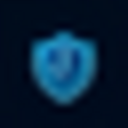
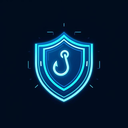
update automation

Changed region(s): [[0.2188, 0.1875, 0.7812, 0.8438]]

diff --git a/popup.html b/popup.html
@@ -15,24 +15,28 @@
 			width: 400px;
 			padding: 20px;
 			font-family: 'Inter', sans-serif;
-			background-color: #f8fafc;
+			background-color: #0A0F1B;
+			color: rgba(255, 255, 255, 0.9);
+			background-image: radial-gradient(circle at 50% 0%, rgba(0, 255, 169, 0.15), transparent 50%), 
+							radial-gradient(circle at 100% 0%, rgba(255, 0, 132, 0.15), transparent 50%);
 		}
 
 		.header {
 			text-align: center;
 			margin-bottom: 20px;
 			padding-bottom: 15px;
-			border-bottom: 1px solid #e2e8f0;
+			border-bottom: 1px solid rgba(255, 255, 255, 0.1);
 		}
 
 		.header h1 {
 			font-size: 24px;
-			color: #1e293b;
+			color: rgba(255, 255, 255, 0.9);
 			margin-bottom: 8px;
+			text-shadow: 0 2px 4px rgba(0, 0, 0, 0.3);
 		}
 
 		.header p {
-			color: #64748b;
+			color: rgba(255, 255, 255, 0.8);
 			font-size: 14px;
 		}
 
@@ -50,25 +54,27 @@
 		.scan-btn {
 			width: 100%;
 			padding: 12px;
-			background-color: #3b82f6;
-			color: white;
+			background: #00FFA9;
+			color: #0A0F1B;
 			border: none;
-			border-radius: 8px;
+			border-radius: 12px;
 			font-size: 16px;
-			font-weight: 500;
+			font-weight: 600;
 			cursor: pointer;
-			transition: background-color 0.2s;
+			transition: all 0.2s;
 			margin-bottom: 20px;
 			position: relative;
 			overflow: hidden;
+			box-shadow: 0 4px 12px rgba(0, 255, 169, 0.2);
 		}
 
 		.scan-btn:hover {
-			background-color: #2563eb;
+			transform: translateY(-2px);
+			box-shadow: 0 6px 16px rgba(0, 255, 169, 0.3);
 		}
 
 		.scan-btn:disabled {
-			background-color: #93c5fd;
+			background-color: rgba(0, 255, 169, 0.5);
 			cursor: not-allowed;
 		}
 
@@ -91,22 +97,21 @@
 		.result {
 			margin: 15px 0;
 			padding: 15px;
-			border-radius: 8px;
+			border-radius: 12px;
 			display: none;
 			animation: slideIn 0.3s ease-out;
-			transition: all 0.3s ease;
+			background: rgba(0, 0, 0, 0.3);
+			backdrop-filter: blur(10px);
+			border: 1px solid rgba(255, 255, 255, 0.1);
+			box-shadow: 0 8px 32px rgba(0, 0, 0, 0.3);
 		}
 
 		.result.safe {
-			background-color: #dcfce7;
-			border: 1px solid #86efac;
-			color: #166534;
+			border-color: rgba(0, 255, 169, 0.3);
 		}
 
 		.result.unsafe {
-			background-color: #fee2e2;
-			border: 1px solid #fca5a5;
-			color: #991b1b;
+			border-color: rgba(255, 0, 132, 0.3);
 		}
 
 		.result-header {
@@ -126,26 +131,30 @@
 
 		.confidence-bar {
 			height: 8px;
-			background-color: #e2e8f0;
+			background-color: rgba(255, 255, 255, 0.1);
 			border-radius: 4px;
 			margin: 8px 0;
 			overflow: hidden;
 		}
 
-		.confidence-fill {
-			height: 100%;
+		#confidenceFill {
 			transition: width 0.5s ease-out, background-color 0.3s ease;
+			height: 100%;
+			border-radius: 4px;
+			background: linear-gradient(to right, #00FFA9, #FF0084);
 		}
 
 		.features {
 			margin-top: 20px;
-			background-color: white;
-			border-radius: 8px;
+			background: rgba(0, 0, 0, 0.3);
+			backdrop-filter: blur(10px);
+			border-radius: 12px;
 			padding: 15px;
-			box-shadow: 0 1px 3px rgba(0,0,0,0.1);
-			transition: all 0.3s ease;
+			border: 1px solid rgba(255, 255, 255, 0.1);
+			box-shadow: 0 8px 32px rgba(0, 0, 0, 0.3);
 			opacity: 0;
 			transform: translateY(10px);
+			transition: all 0.3s ease;
 		}
 
 		.features.visible {
@@ -158,18 +167,19 @@
 			font-size: 1.2em;
 			margin: 0;
 			padding: 0;
+			color: rgba(255, 255, 255, 0.9);
 		}
 
 		.confidence-value {
 			font-size: 1em;
 			margin-top: 5px;
-			color: #4b5563;
+			color: rgba(255, 255, 255, 0.8);
 		}
 
 		.feature-text {
 			font-family: 'Inter', sans-serif;
 			font-size: 0.9em;
-			color: #4b5563;
+			color: rgba(255, 255, 255, 0.8);
 		}
 
 		.feature-item {
@@ -177,9 +187,9 @@
 			align-items: center;
 			padding: 10px;
 			margin: 5px 0;
-			background-color: #f8fafc;
-			border-radius: 6px;
-			border: 1px solid #e2e8f0;
+			background: rgba(255, 255, 255, 0.05);
+			border-radius: 8px;
+			border: 1px solid rgba(255, 255, 255, 0.1);
 			animation: slideIn 0.3s ease-out;
 			animation-fill-mode: both;
 		}
@@ -193,29 +203,39 @@
 		.feature-icon {
 			margin-right: 12px;
 			font-size: 1.1em;
-			color: #ef4444;
-		}
-
-		#confidenceFill {
-			transition: width 0.5s ease-out, background-color 0.3s ease;
-			height: 100%;
-			border-radius: 4px;
+			color: rgba(255, 0, 132, 0.9);
 		}
 
 		.threat-level {
 			display: inline-block;
 			padding: 4px 8px;
-			border-radius: 4px;
+			border-radius: 6px;
 			font-size: 12px;
 			font-weight: 500;
 			text-transform: uppercase;
-			transition: all 0.3s ease;
+			backdrop-filter: blur(10px);
 		}
 
-		.threat-level.high { background-color: #fecaca; color: #991b1b; }
-		.threat-level.medium { background-color: #fed7aa; color: #9a3412; }
-		.threat-level.low { background-color: #fef08a; color: #854d0e; }
-		.threat-level.safe { background-color: #bbf7d0; color: #166534; }
+		.threat-level.high { 
+			background: rgba(255, 0, 132, 0.2);
+			border: 1px solid rgba(255, 0, 132, 0.3);
+			color: rgba(255, 255, 255, 0.9);
+		}
+		.threat-level.medium { 
+			background: rgba(255, 166, 0, 0.2);
+			border: 1px solid rgba(255, 166, 0, 0.3);
+			color: rgba(255, 255, 255, 0.9);
+		}
+		.threat-level.low { 
+			background: rgba(255, 255, 0, 0.2);
+			border: 1px solid rgba(255, 255, 0, 0.3);
+			color: rgba(255, 255, 255, 0.9);
+		}
+		.threat-level.safe { 
+			background: rgba(0, 255, 169, 0.2);
+			border: 1px solid rgba(0, 255, 169, 0.3);
+			color: rgba(255, 255, 255, 0.9);
+		}
 	</style>
 </head>
 <body>

diff --git a/background.js b/background.js
@@ -166,6 +166,53 @@ class URLFeatureExtractor {
 
 const analyzer = new URLFeatureExtractor();
 
+// Create a notification system
+function showToast(result) {
+	const options = {
+		type: 'basic',
+		iconUrl: 'icons/icon128.png',
+		title: result.is_phishing ? 'Warning: Potentially Unsafe Website' : 'Safe Website',
+		message: `Threat Level: ${result.threat_level.toUpperCase()}\nConfidence: ${Math.round(result.confidence * 100)}%`
+	};
+
+	chrome.notifications.create('urlScan_' + Date.now(), options);
+}
+
+// Track previously scanned URLs to avoid duplicate notifications
+const scannedUrls = new Set();
+
+// Listen for tab updates
+chrome.tabs.onUpdated.addListener((tabId, changeInfo, tab) => {
+	if (changeInfo.status === 'complete' && tab.url && tab.url.startsWith('http')) {
+		// Check if URL was recently scanned
+		if (!scannedUrls.has(tab.url)) {
+			const result = analyzer.predictUrl(tab.url);
+			
+			// Show notification based on threat level
+			if (result.threat_level === 'high' || result.threat_level === 'medium') {
+				showToast(result);
+			}
+
+			// Add URL to recently scanned set
+			scannedUrls.add(tab.url);
+
+			// Clear URL from set after 5 minutes to allow rescanning
+			setTimeout(() => {
+				scannedUrls.delete(tab.url);
+			}, 5 * 60 * 1000);
+
+			// Update extension icon and badge based on threat level
+			const iconColor = result.is_phishing ? '#FF0084' : '#00FFA9';
+			chrome.action.setBadgeBackgroundColor({ color: iconColor });
+			chrome.action.setBadgeText({ 
+				text: result.threat_level === 'safe' ? '✓' : '!',
+				tabId: tabId
+			});
+		}
+	}
+});
+
+// Existing message listener
 chrome.runtime.onMessage.addListener((request, sender, sendResponse) => {
 	if (request.action === 'analyzeUrl') {
 		const result = analyzer.predictUrl(request.url);

diff --git a/popup.js b/popup.js
@@ -30,7 +30,8 @@ document.addEventListener('DOMContentLoaded', function() {
 		// Animate confidence bar
 		setTimeout(() => {
 			confidenceFill.style.width = `${confidence * 100}%`;
-			confidenceFill.style.backgroundColor = is_phishing ? '#ef4444' : '#22c55e';
+			// Remove backgroundColor setting as we're using gradient in CSS
+			confidenceFill.style.background = 'linear-gradient(to right, #00FFA9, #FF0084)';
 		}, 100);
 		
 		// Update threat level with animation
@@ -47,8 +48,8 @@ document.addEventListener('DOMContentLoaded', function() {
 					const featureItem = document.createElement('div');
 					featureItem.className = 'feature-item';
 					featureItem.innerHTML = `
-						<span class="feature-icon">⚠</span>
-						<span>${formatFeatureName(feature)}</span>
+						<span class="feature-icon" style="color: rgba(255, 0, 132, 0.9);">⚠</span>
+						<span class="feature-text">${formatFeatureName(feature)}</span>
 					`;
 					featuresList.appendChild(featureItem);
 				}
@@ -56,7 +57,7 @@ document.addEventListener('DOMContentLoaded', function() {
 		} else {
 			const noFeatures = document.createElement('div');
 			noFeatures.className = 'feature-item';
-			noFeatures.innerHTML = '<span>No suspicious features detected</span>';
+			noFeatures.innerHTML = '<span class="feature-text">No suspicious features detected</span>';
 			featuresList.appendChild(noFeatures);
 		}
 
